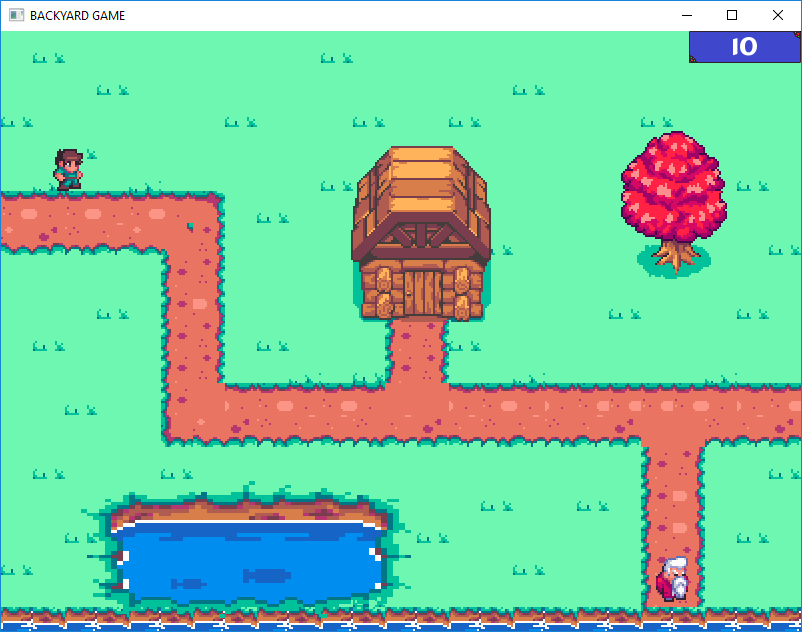
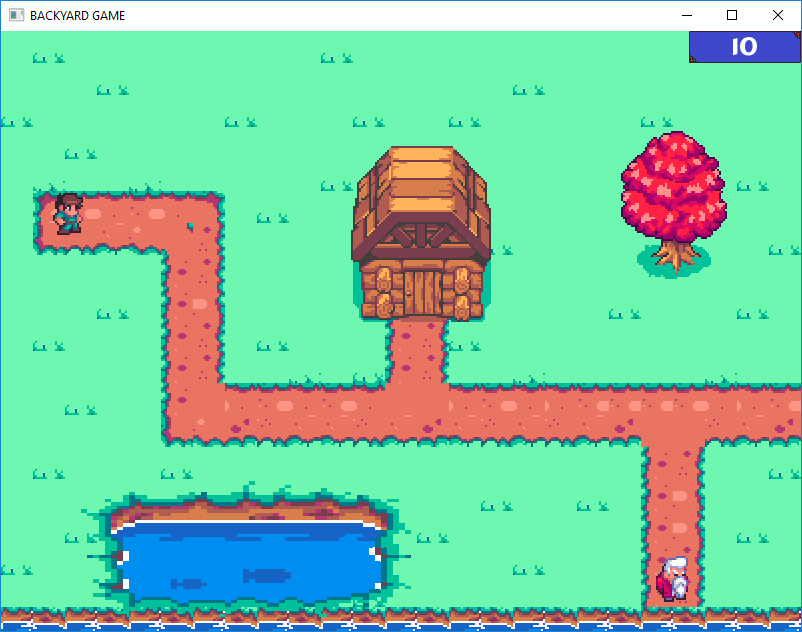
new screenshots

Changed region(s): [[0.0, 0.2405, 0.1247, 0.4209]]

diff --git a/BackyardGame/BackyardGame/Map.cpp b/BackyardGame/BackyardGame/Map.cpp
@@ -9,8 +9,8 @@ void Map::LoadBackyardMap()
 		30,	0,	0,	0,	0,	0,	0,	30,	0,	0,	0,	30,	0,	0,	30,	0,	0,	0,	0,	0,	30,	0,	0,	0,	0,
 		0,	0,	30,	0,	0,	0,	0,	0,	0,	0,	0,	0,	0,	0,	0,	0,	0,	0,	0,	0,	0,	0,	0,	0,	0,
 		0,	1,	0,	0,	1,	0,	0,	0,	0,	0,	30,	0,	0,	30,	0,	0,	0,	0,	0,	0,	0,	0,	0,	30,	0,
-		2,	4,	2,	4,	2,	4,	8,	0,	30,	0,	0,	0,	0,	0,	0,	0,	0,	0,	0,	0,	0,	0,	0,	0,	0,
-		9,	10, 11, 12, 9, 19,	15, 0,	0,	0, 0,	0,	0,	0,	0,	30,	0,	0,	0,	0,	0,	30,	0,	0,	30,
+		0,	7,	2,	4,	2,	4,	8,	0,	30,	0,	0,	0,	0,	0,	0,	0,	0,	0,	0,	0,	0,	0,	0,	0,	0,
+		0,	18, 11, 12, 9, 19,	15, 0,	0,	0, 0,	0,	0,	0,	0,	30,	0,	0,	0,	0,	0,	30,	0,	0,	30,
 		0,	0,	0,	0,	0,	6,	15,	0,	0,	0, 0,	0,	0,	0,	0,	0,	0,	0,	0,	0,	0,	0,	0,	0,	0,
 		0,	0,	0,	30,	0,	6,	14,	0,	0,	0, 0,	0,	0,	0,	0,	0,	0,	0,	0,	30,	0,	0,	0,	30,	0,
 		0,	30,	0,	0,	0,	6,	15,	0,	30,	0,	0,	0,	6,	15,	30,	0,	0,	0,	0,	0,	0,	0,	0,	0,	0,

diff --git a/BackyardGame/BackyardGame/BackyardState.cpp b/BackyardGame/BackyardGame/BackyardState.cpp
@@ -9,7 +9,7 @@ BackyardState::BackyardState(sf::RenderWindow * window) : GameState(window)
 {
 	map.LoadBackyardMap(); // load map
 	//entities settings
-	player.setSpritePosition(50, 150);
+	player.setSpritePosition(50, 160);
 	house.setSpritePosition(350, 115);
 	lake.setSpritePosition(80, 450);
 	lake.getSprite().setScale(6.f, 3.5f);
